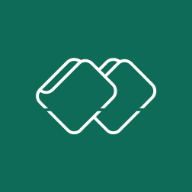
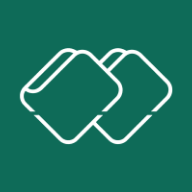
Yenilemede sayfa korunuyor, açılış ekranı ve yeni simgeler
Claude-Session: https://claude.ai/code/session_01NztAvzAuAFtTTuQnSakDUg

Changed region(s): [[0.0938, 0.25, 0.9062, 0.75]]

diff --git a/app.js b/app.js
@@ -608,6 +608,14 @@ function render(){
   document.getElementById('tabsnav').hidden=!!ui.page;
   document.getElementById('fab').hidden=!(!ui.page&&ui.tab==='cuzdan'&&(ui.sub==='islem'||ui.sub==='butce'));
 }
+function persistUi(){try{localStorage.setItem('wallet-ui',JSON.stringify({tab:ui.tab,sub:ui.sub}));}catch(e){}}
+function restoreUi(){
+  try{var u=JSON.parse(localStorage.getItem('wallet-ui')||'{}');if(TABS.some(function(t){return t[0]===u.tab;}))ui.tab=u.tab;if(['islem','butce','hedef','duzenli'].indexOf(u.sub)>=0)ui.sub=u.sub;}catch(e){}
+  var h=(location.hash||'').slice(1);
+  if(h==='fire')ui.page={k:'fire'};
+  else if(/^ayar-[a-z]+$/.test(h))ui.page={k:'set',s:h.slice(5)};
+  else if(h){try{history.replaceState(null,'',location.pathname+location.search);}catch(e){}}
+}
 function openPage(p,hash){ui.page=p;try{if(hash)location.hash=hash;}catch(e){}render();window.scrollTo(0,0);}
 function finishPage(){if(ui.page&&ui.page.k==='note')saveNote();}
 function closePage(){finishPage();ui.page=null;render();try{if(location.hash.length>1)history.back();}catch(e){}}
@@ -659,10 +667,10 @@ function rSheet(id){
 }
 
 /* ---------- eylemler ---------- */
-ACT.tab=function(el,id,v){ui.tab=v;render();window.scrollTo(0,0);};
+ACT.tab=function(el,id,v){ui.tab=v;persistUi();render();window.scrollTo(0,0);};
 ACT.back=function(){closePage();};
 ACT.eye=function(){ui.reveal=!ui.reveal;render();};
-ACT.sub=function(el,id,v){ui.sub=v;render();};
+ACT.sub=function(el,id,v){ui.sub=v;persistUi();render();};
 ACT.mprev=function(){ui.month=addMonth(ui.month,-1);render();};
 ACT.mnext=function(){ui.month=addMonth(ui.month,1);render();};
 ACT.filter=function(el,id,v){ui.filter=v;render();};
@@ -904,6 +912,8 @@ window.addEventListener('hashchange',function(){
 });
 
 document.getElementById('fab').innerHTML=ic('plus');
+restoreUi();
 render();
+(function(){var sp=document.getElementById('splash');if(sp){setTimeout(function(){sp.style.opacity='0';setTimeout(function(){sp.remove();},350);},500);}})();
 refreshRates();setTimeout(notifyDue,1500);
 })();

diff --git a/style.css b/style.css
@@ -173,3 +173,7 @@ ul.plain{margin:0;padding-left:18px;display:grid;gap:6px}
 .donut{width:112px;height:112px;flex:none}
 .lgs{flex:1;min-width:0;display:grid;gap:7px}
 .lg{display:flex;align-items:center;gap:8px;font-size:.8125rem}
+
+#splash{position:fixed;inset:0;z-index:9999;background:#0E6B58;display:flex;flex-direction:column;align-items:center;justify-content:center;gap:18px;transition:opacity .3s}
+#splash .logo{background:#fff;width:132px;height:84px}
+#splash b{color:#fff;font-size:1.6rem;letter-spacing:.02em}

diff --git a/sw.js b/sw.js
@@ -1,5 +1,5 @@
 /* Çevrimdışı çalışma: önce önbellek, ağdan gelen yeni sürümü arka planda günceller. */
-const CACHE = 'wallet-v3';
+const CACHE = 'wallet-v4';
 const FILES = ['./', 'index.html', 'style.css', 'app.js', 'manifest.webmanifest', 'icons/icon-192.png', 'icons/icon-512.png'];
 self.addEventListener('install', e => {
   e.waitUntil(caches.open(CACHE).then(c => c.addAll(FILES)).then(() => self.skipWaiting()));

diff --git a/index.html b/index.html
@@ -15,6 +15,7 @@
 <link rel="stylesheet" href="style.css">
 </head>
 <body>
+<div id="splash" aria-hidden="true"><span class="logo"></span><b>Wallet</b></div>
 <div class="wrap">
   <header id="hdr"></header>
   <main id="view" class="stack"></main>
